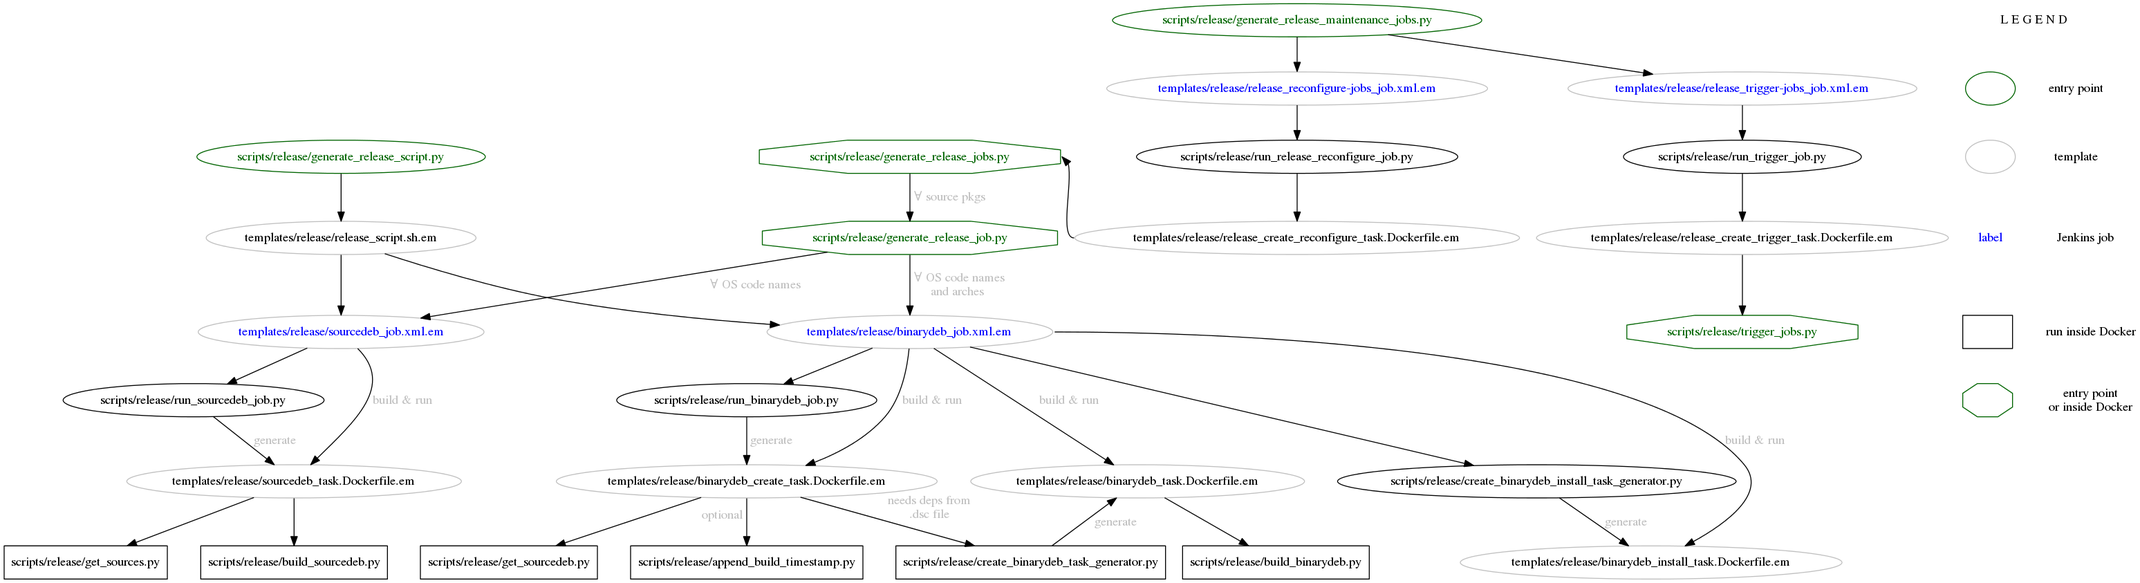
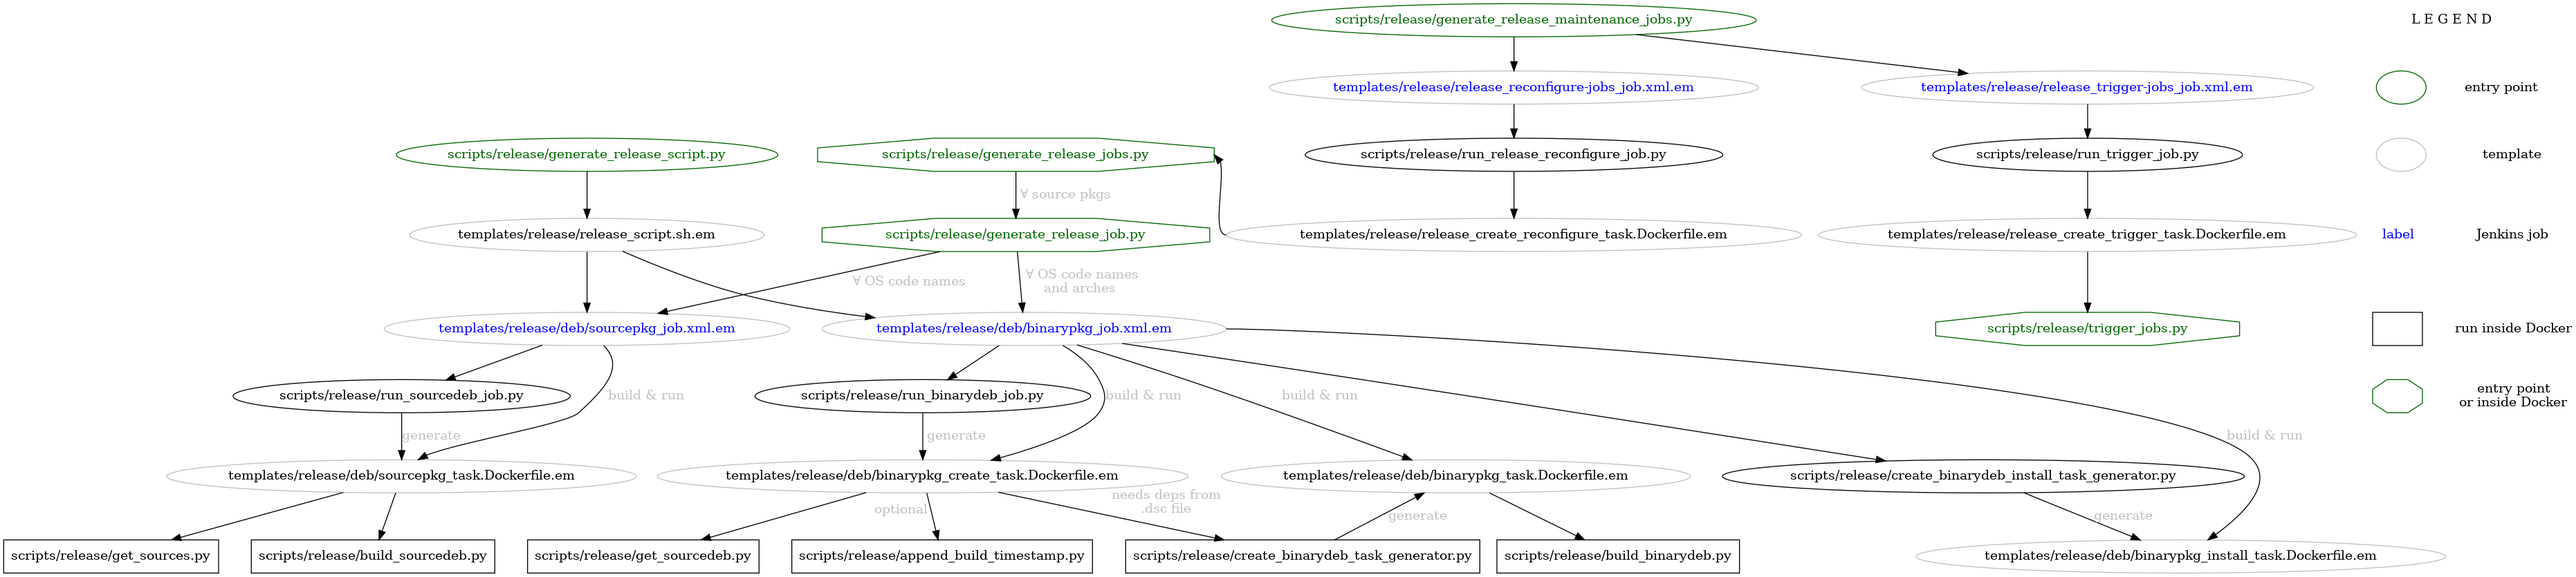
Move debian-specific release templates to a subdirectory
Each of these templates includes a debian-specific approach that doesn't
apply to RPMs. The templates remaining in the `templates/release`
directory don't appear to be debian-specific and should be usable for
RPMs as well.

In some locations (such as `release_job.py`) it will be necessary to
select a template based on the packaging format of the target OS.
Organizing the templates in subdirectories like this will give us an
easy way to select the template that serves a specific purpose for a
given packaging format. This is why some of the template file names were
also renamed to be more neutral.

diff --git a/ros_buildfarm/release_job.py b/ros_buildfarm/release_job.py
@@ -575,7 +575,7 @@ def _get_sourcedeb_job_config(
         config, build_file, os_name, os_code_name,
         pkg_name, repo_name, release_repository, dist_cache=None,
         is_disabled=False, other_build_files_same_platform=None):
-    template_name = 'release/sourcedeb_job.xml.em'
+    template_name = 'release/deb/sourcepkg_job.xml.em'
 
     repository_args, script_generating_key_files = \
         get_repositories_and_script_generating_key_files(build_file=build_file)
@@ -658,7 +658,7 @@ def _get_binarydeb_job_config(
         pkg_name, repo_name, release_repository,
         dist_cache=None, upstream_job_names=None,
         is_disabled=False):
-    template_name = 'release/binarydeb_job.xml.em'
+    template_name = 'release/deb/binarypkg_job.xml.em'
 
     repository_args, script_generating_key_files = \
         get_repositories_and_script_generating_key_files(build_file=build_file)
@@ -761,7 +761,7 @@ def get_import_package_job_name(rosdistro_name):
 
 
 def _get_import_package_job_config(build_file):
-    template_name = 'release/import_package_job.xml.em'
+    template_name = 'release/deb/import_package_job.xml.em'
     job_data = {
         'target_queue': build_file.target_queue,
         'abi_incompatibility_assumed': build_file.abi_incompatibility_assumed,
@@ -806,7 +806,7 @@ def get_sync_packages_to_testing_job_name(
 def _get_sync_packages_to_testing_job_config(
         config_url, rosdistro_name, release_build_name, os_code_name, arch,
         config, build_file):
-    template_name = 'release/sync_packages_to_testing_job.xml.em'
+    template_name = 'release/deb/sync_packages_to_testing_job.xml.em'
 
     repository_args, script_generating_key_files = \
         get_repositories_and_script_generating_key_files(build_file=build_file)
@@ -859,7 +859,7 @@ def get_sync_packages_to_main_job_name(rosdistro_name):
 
 
 def _get_sync_packages_to_main_job_config(rosdistro_name, build_file):
-    template_name = 'release/sync_packages_to_main_job.xml.em'
+    template_name = 'release/deb/sync_packages_to_main_job.xml.em'
     job_data = {
         'rosdistro_name': rosdistro_name,
 

diff --git a/scripts/release/generate_release_script.py b/scripts/release/generate_release_script.py
@@ -57,7 +57,7 @@ def main(argv=sys.argv[1:]):
 
         def beforeFile(self, *args, **kwargs):
             template_path = kwargs['file'].name
-            if template_path.endswith('/release/binarydeb_job.xml.em'):
+            if template_path.endswith('/release/deb/binarypkg_job.xml.em'):
                 self.scripts.append('--')
 
         def beforeInclude(self, *args, **kwargs):

diff --git a/scripts/release/create_binarydeb_task_generator.py b/scripts/release/create_binarydeb_task_generator.py
@@ -108,7 +108,7 @@ def main(argv=sys.argv[1:]):
         'binarypkg_dir': args.binarypkg_dir,
     }
     create_dockerfile(
-        'release/binarydeb_task.Dockerfile.em', data, args.dockerfile_dir)
+        'release/deb/binarypkg_task.Dockerfile.em', data, args.dockerfile_dir)
 
     # output hints about necessary volumes to mount
     ros_buildfarm_basepath = os.path.normpath(

diff --git a/scripts/release/generate_release_maintenance_jobs.py b/scripts/release/generate_release_maintenance_jobs.py
@@ -116,7 +116,7 @@ def get_trigger_missed_jobs_job_config(args, config, build_file):
 
 
 def get_import_upstream_job_config(args, config, build_file):
-    template_name = 'release/import_upstream_job.xml.em'
+    template_name = 'release/deb/import_upstream_job.xml.em'
     return _get_job_config(args, config, config.notify_emails, template_name)
 
 

diff --git a/scripts/release/create_binarydeb_install_task_generator.py b/scripts/release/create_binarydeb_install_task_generator.py
@@ -53,7 +53,7 @@ def main(argv=sys.argv[1:]):
             args.distribution_repository_key_files),
     }
     create_dockerfile(
-        'release/binarydeb_install_task.Dockerfile.em',
+        'release/deb/binarypkg_install_task.Dockerfile.em',
         data, args.dockerfile_dir)
 
     # output hints about necessary volumes to mount

diff --git a/scripts/release/run_sourcedeb_job.py b/scripts/release/run_sourcedeb_job.py
@@ -62,7 +62,7 @@ def main(argv=sys.argv[1:]):
         'uid': get_user_id(),
     })
     create_dockerfile(
-        'release/sourcedeb_task.Dockerfile.em', data, args.dockerfile_dir)
+        'release/deb/sourcepkg_task.Dockerfile.em', data, args.dockerfile_dir)
 
 
 if __name__ == '__main__':

diff --git a/scripts/release/run_binarydeb_job.py b/scripts/release/run_binarydeb_job.py
@@ -74,7 +74,7 @@ def main(argv=sys.argv[1:]):
         'dockerfile_dir': '/tmp/docker_build_binarydeb',
     })
     create_dockerfile(
-        'release/binarydeb_create_task.Dockerfile.em',
+        'release/deb/binarypkg_create_task.Dockerfile.em',
         data, args.dockerfile_dir)
 
 
